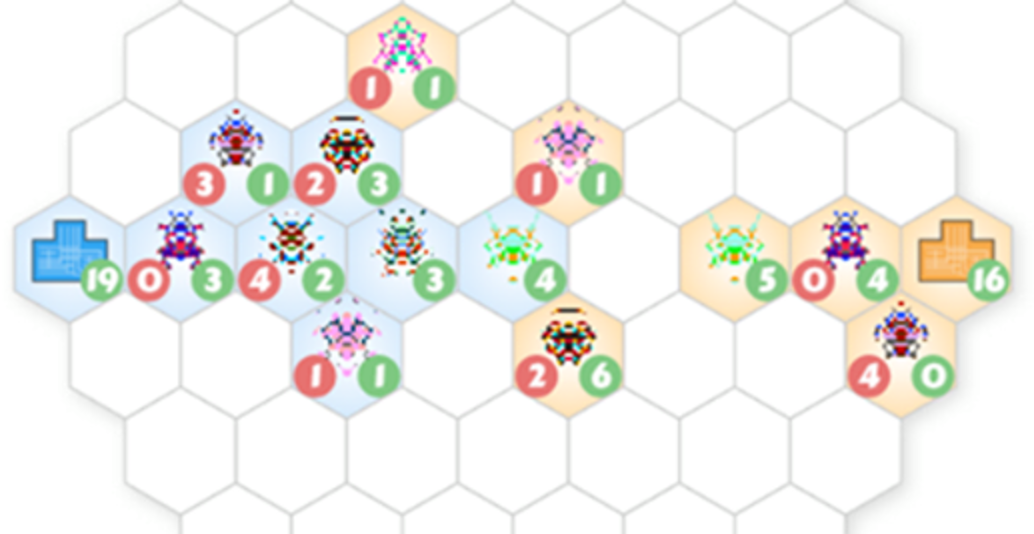
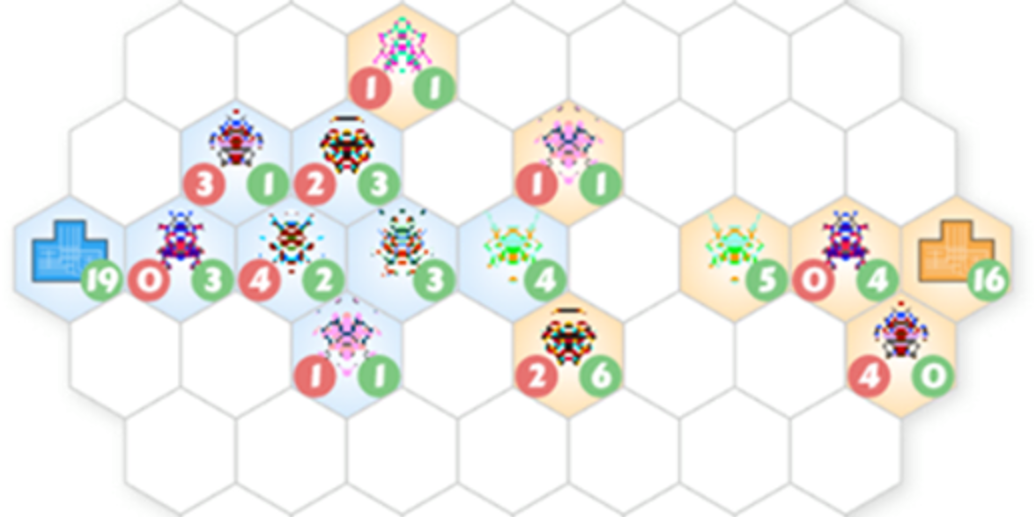
minor

diff --git a/styles/index.css b/styles/index.css
@@ -15,8 +15,8 @@ a {
 
 .markdownBlock img {
   display: block;
-  width: 200px;
-  margin: -1em auto 0;
+  width: 300px;
+  margin: 0 auto 0.5em;
 }
 
 .markdownBlock h1 {
